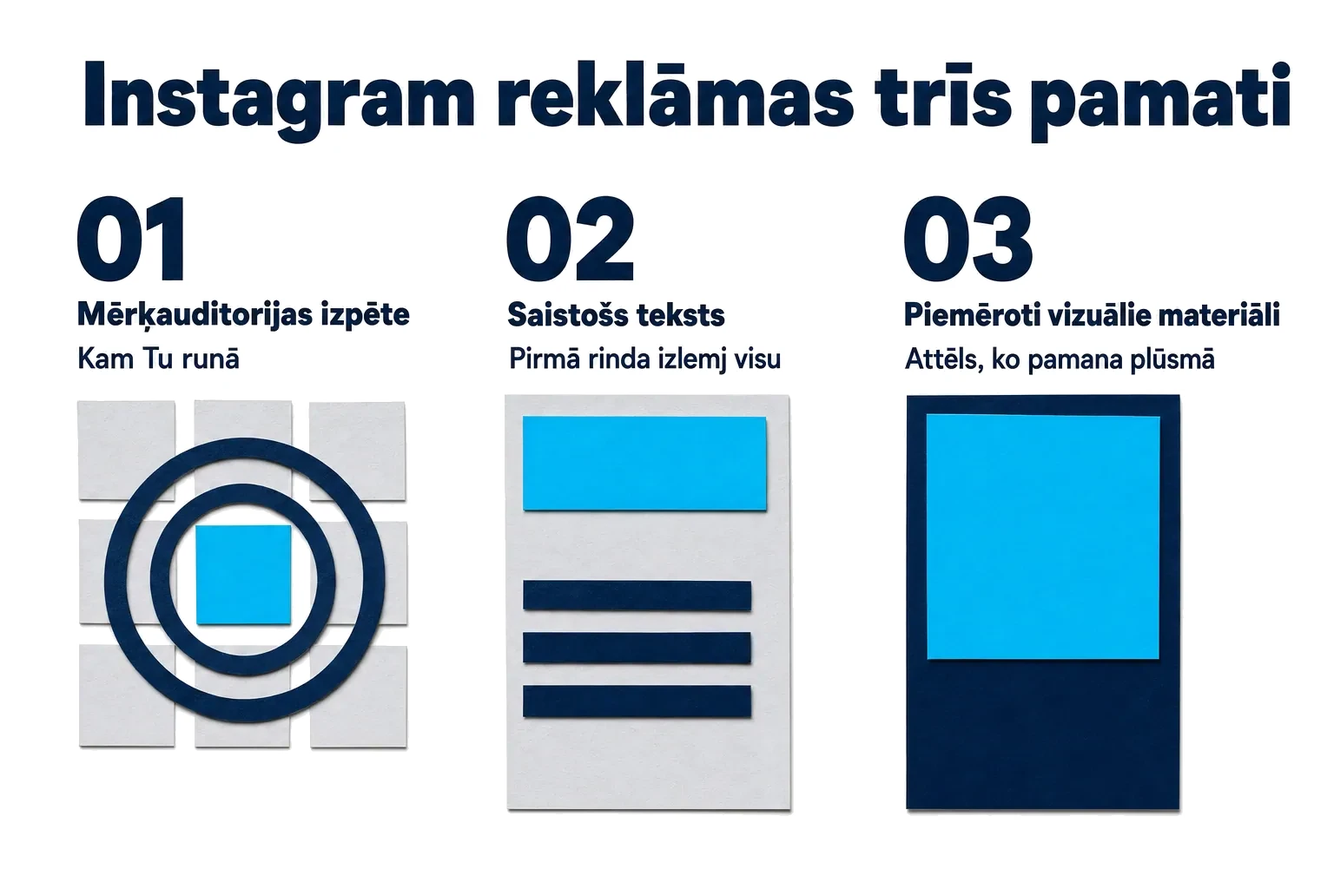
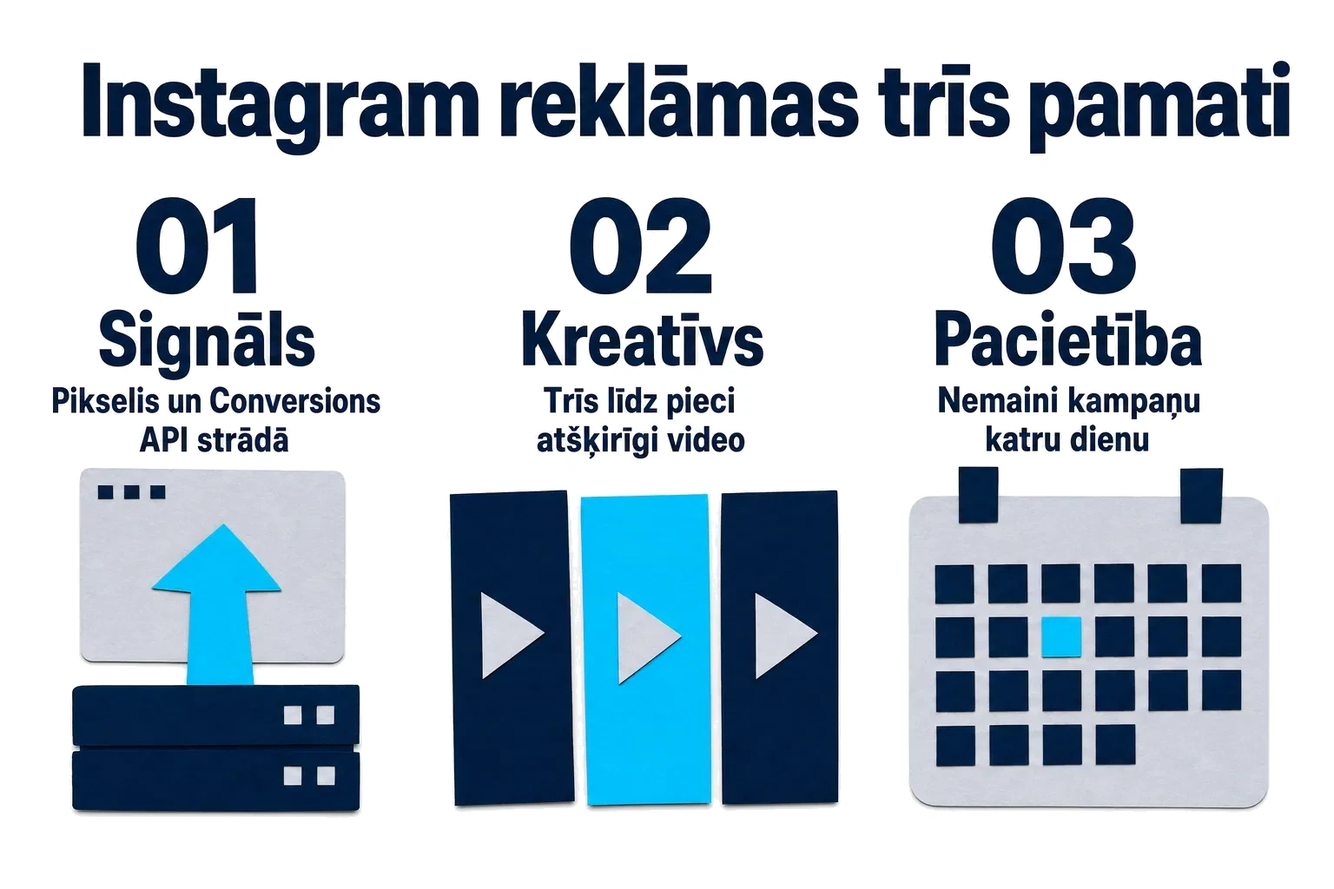
Rewrite the Instagram and Facebook ads posts for 2026
Both were written when you still picked the audience by hand. That is the
part the algorithm now does better, so the articles are restructured around
what actually decides the result: the signal you feed it (pixel plus
Conversions API), the number of different creatives, and leaving the
campaign alone long enough to learn.

Instagram: five steps plus what not to do, an Advantage+ section, and its
infographic redrawn from 'audience research / text / visuals' to
'signal / creative / patience' so the picture matches the argument.

Facebook: a setup order rather than six abstract stages, with the objective
mistake (iesaiste when you want buyers) called out, real Latvian starting
budgets, and a five-step infographic.

Deep links into the Meta course, the Facebook/Instagram service and the
neighbouring posts; the service link now points at /facebook-reklama/,
which is the service page, not the blog post at /meta-reklamas/.

diff --git a/src/posts/instagram-reklama.md b/src/posts/instagram-reklama.md
@@ -2,53 +2,108 @@
 layout: post.njk
 title: "Instagram reklāma - no kura gala sākt?"
 seoTitle: "Instagram reklāma - no kura gala sākt? | Mārketinga Skola"
-description: "Vai zini, kas ir galvenie soļi, kas nepieciešami, lai Instagram reklāma dotu labākos rezultātus? Šajā rakstā aplūkosim katru no šiem soļiem!"
+description: "Instagram reklāma 2026. gadā: signāls, kreatīvs un budžets. Pieci soļi, ar ko sākt, un kļūdas, kas maksā visdārgāk."
 date: 2022-02-09
-updated: 2024-10-21
+updated: 2026-09-05
 image: "/img/gen/cover-instagram-reklama.webp"
 legacyImage: "/img/2022/02/7.jpg"
 categories: ["socialo-tiklu-reklama"]
 permalink: "/instagram-reklama/"
-keywords: ["Instagram reklāma", "mērķauditorija", "reklāmas teksts", "vizuālie materiāli"]
+keywords: ["Instagram reklāma", "Meta reklāma", "Conversions API", "reklāmas kreatīvs", "Advantage+"]
 
 ---
 
-Instagram reklāma ir viens no efektīvākajiem un populārākajiem veidiem, kā popularizēt savu uzņēmumu. Kāpēc? Instagram ir sastopami lietotāji ar dažādām interesēm, tāpēc tā ļoti strauji kļūst par populārāko sociālo mediju platformu, kurā uzņēmumi īsteno savas mārketinga stratēģijas.
+Instagram reklāmu vairs neizšķir tas, cik precīzi Tu izvēlies mērķauditoriju. Algoritms to atrod pats. Izšķir divas citas lietas: kādu signālu Tu tam iedod un cik labs ir Tavs reklāmas materiāls.
 
-Instagram reklāma ir lielisks veids, kā Tu vari uzrunāt vēlamo mērķauditoriju un piesaistīt potenciālo klientu uzmanību. Šajā visā gan slēpjas neliels āķis: Lai Tavi potenciālie klienti būtu tiešām ieinteresēti, Tavām reklāmām ir jābūt saistošām, vizuāli pievilcīgām un, protams, ieintriģējošām!
+Tieši tāpēc vecie padomi vairs nedarbojas. Sīki salikta interešu auditorija šodien biežāk traucē, nevis palīdz, jo tā ierobežo sistēmu, kas pati pircēju būtu atradusi lētāk.
 
-Šajā bloga rakstā mēs dalīsimies ar vērtīgiem faktoriem, ko ņemt vērā, veidojot savu Instagram reklāmu. Pēc raksta izlasīšanas, sapratīsi, kā izveidot perfektu Instagram reklāmu savam uzņēmumam, kas izraisītu vislielāko iesaistīšanos un kopīgošanos (tādu reklāmu, kas uzlabos Tavu zīmolu)!
+Šajā rakstā apskatīsim piecas lietas, ar ko sākt, un vienu, ko labāk nedarīt.
 
-## Mērķauditorijas izpēte
+## Kas mainījies
 
-Veiksmīga Instagram reklāma ir tāda, pirms kuras izveides, ir rūpīgi izpētīta reklāmas mērķauditorija, tās vajadzības un intereses. Tas var prasīt zināmu laiku, taču tas ir tā vērts! Tev ir jāspēj izveidot neticami detalizēts priekšstats par savu mērķauditoriju, lai spētu to efektīvi uzrunāt. Savā izpētē ir jāiekļauj tādi aspekti kā demogrāfija, ienākumi, vēlme komentēt un dalīties ar publikācijām, kā arī viņu ģeogrāfiskā atrašanās vieta.
+Trīs izmaiņas, kas maina darbu secību.
 
-_Atceries: Tavai auditorijai ir jānosaka Tavas Instagram reklāmas saturs, nevis otrādi. Nav iespējams ieinteresēt cilvēkus reklāmā, kuras saturs viņiem nav saistošs un šķiet garlaicīgs._
+**Auditorijas izvēle ir kļuvusi mazsvarīga.** Meta reklāmu sistēma mācās no cilvēku uzvedības, un tai vajag brīvu telpu. Šaura auditorija to ierobežo. Praksē plaša auditorija ar labu reklāmas materiālu gandrīz vienmēr uzvar šauru auditoriju ar viduvēju reklāmu.
 
-## Saistošs reklāmas teksts
+**Reklāmas materiāls ir kļuvis par galveno ietekmes faktoru.** Tas, ko cilvēks redz pirmajā sekundē, tagad nosaka gan cenu, gan rezultātu. Ja reklāma neaptur ritināšanu, pārējam vairs nav nozīmes.
 
-Zināji, ka veiksmīgs reklāmas teksts ir tāds, kas pievērš potenciālā klienta uzmanību pirmajās trīs sekundēs? [Reklāmas tekstu sastādīšanas](/5-ieteikumi-konvertejosu-reklamas-tekstu-sastadisana/) laikā domā par personisko aspektu: centies lietotāju acīs palikt kā uzņēmums, kam rūp. Padari savu reklāmas tekstu sulīgu, saistošu un piemērotu Tavai mērķauditorijai. Noteikti arī pārliecinies, ka Tavā tekstā nav gramatikas kļūdu, jo tas norādīs uz profesionalitāti.
+**Mērīšana notiek servera pusē.** Pārlūkprogrammas bloķē izsekošanu, tāpēc dati, kas nāk tikai no pikseļa, ir nepilnīgi. Ja datu trūkst, algoritms mācās lēnāk un reklāma maksā dārgāk.
 
-Atceries: _Tavas reklāmas teksts ir viens no svarīgākajiem faktoriem, jo tas nosaka to, vai potenciālais klients uzklikšķinās uz Tavas reklāmas un vēlēsies lasīt tālāk!_
+## Solis viens: sakārto signālu
 
-## Piemēroti vizuālie materiāli
+Pirms pirmās kampaņas pārbaudi, vai Meta vispār redz, kas notiek Tavā mājaslapā.
 
-Kāpēc Instagram ir viena no labākajām sociālo mediju mārketinga platformām? Cilvēkus dabiski piesaista vizuāls saturs un estētiski vizuālie materiāli. Cilvēka uztvere un pirmais iespaids par zīmolu ir atkarīgs no tā, ko viņš vai viņa redz Instagram reklāmā. Ja vēlies piesaistīt vairāk uzmanības Instagram, tad noteikti atceries, ka ir jāveido reklāmas, kas ir estētiski pievilcīgas. Īsāk sakot, Tavs uzdevums ir izveidot vai atrast vizuāli (bildi, attēlu, zīmējumu), kas ir “vienīgais īstais”, jo parāda tieši to, ko vēlies pateikt.
+Vajag divas lietas: pikseli un servera puses notikumus jeb Conversions API. Abus var savienot [Meta Events Manager](https://business.facebook.com/events_manager2/) sadaļā, un lielākajām mājaslapu platformām tam ir gatavs pieslēgums. Kad tas ir izdarīts, notikumu kvalitātes rādītājs parāda, cik daudz datu tiešām tiek nosūtīts.
 
-Noteikti atceries, ka Tavam vizuālim ir jābūt piemērotam nozarei, kurā darbojies, kā arī silti iesakām publicēt sava reklamējamā produktu attēlu. Noteikti apsver domu par sadarbību ar grafisko dizaineri, kurš varētu Tavas Instagram reklāmas vizuālos materiālus pacelt jaunā līmenī!
+Šis solis nav aizraujošs, un tieši tāpēc to bieži izlaiž. Bet bez tā katrs nākamais solis strādā vājāk.
+
+## Solis divi: reklāmas materiāls ir jaunā mērķauditorija
+
+Ja auditoriju izvēlas algoritms, Tavs darbs ir sagatavot pietiekami daudz dažādu reklāmu, lai tam būtu, no kā izvēlēties.
+
+Praktisks minimums vienai kampaņai: trīs līdz pieci atšķirīgi reklāmas materiāli. Nevis trīs vienas bildes krāsu varianti, bet trīs dažādas idejas. Viens rāda produktu darbībā, otrs klienta atsauksmi, trešais atbild uz konkrētu iebildumu.
+
+Kas 2026. gadā strādā Instagram plūsmā:
+
+- **Vertikāls video, filmēts ar telefonu.** Pārāk noslīpēta reklāma izskatās pēc reklāmas, un to izlaiž.
+- **Cilvēks kadrā pirmajā sekundē.** Seja aptur ritināšanu labāk nekā produkta bilde.
+- **Klientu saturs.** Īsts lietotāja video parasti pārspēj studijā filmētu materiālu.
+- **Teksts uz ekrāna.** Lielākā daļa skatās bez skaņas.
+
+Plašāk par formātu esam rakstījuši sadaļā [Instagram Reels mārketingam](/instagram-reels-marketingam/).
+
+## Solis trīs: pirmās trīs sekundes
+
+Vecais padoms bija "padari tekstu saistošu". Šodien ar to nepietiek. Cilvēks reklāmu redz kustībā, tāpēc pirmās trīs sekundes izšķir visu, un tās notiek attēlā, nevis parakstā.
+
+Pārbaudi savu reklāmu tā: noskaties pirmās trīs sekundes bez skaņas. Ja šajā laikā nav skaidrs, par ko ir runa un kam tas domāts, reklāmas materiāls ir jāpārtaisa.
+
+Paraksts ir otrajā vietā. Viena doma, konkrēta priekšrocība un skaidrs aicinājums rīkoties. Praktiskas formulas atradīsi rakstos [īsa pamācība izcilu reklāmas tekstu veidošanā](/isa-pamaciba-izcilu-reklamas-tekstu-veidosana/) un [5 ieteikumi konvertējošu reklāmas tekstu sastādīšanai](/5-ieteikumi-konvertejosu-reklamas-tekstu-sastadisana/).
+
+## Solis četri: budžets un pacietība
+
+Biežākais iemesls, kāpēc reklāma nestrādā, nav slikts reklāmas materiāls. Tas ir pārāk daudz roku darba.
+
+Sistēmai vajag apmēram piecdesmit konversijas nedēļā vienā reklāmu kopā, lai tā izietu no mācīšanās posma. Ja Tu maini budžetu vai auditoriju katru dienu, mācīšanās sākas no jauna un rezultāta nav nekad.
+
+Praktiskā kārtība ir vienkārša. Viena kampaņa, viena reklāmu kopa, plaša auditorija, vairāki reklāmas materiāli. Budžetu nemaini biežāk kā reizi nedēļā un ne vairāk kā par divdesmit procentiem. Cenu vērtē nedēļas ietvaros, nevis pa dienām.
+
+Cik tas maksā Latvijā, esam sarēķinājuši rakstā [cik maksā reklāma Facebook](/cik-maksa-reklama-facebook/).
+
+## Solis pieci: skaties uz pareizo skaitli
+
+Reklāmu pārvaldnieks rāda katras reklāmas atdevi atsevišķi, un tas var maldināt. Cilvēks reklāmu var redzēt Instagram, bet nopirkt pēc trim dienām no meklētāja.
+
+Tāpēc lēmumus pieņem pēc diviem skaitļiem: cik maksā viens klients un cik kopā ienāca kasē tajā pašā periodā. Ja abi iet pareizajā virzienā, kampaņa strādā, lai ko rādītu atsevišķas rindas.
+
+## Vai izmantot Advantage+ kampaņas
+
+Meta piedāvā kampaņu veidu, kur sistēma pati izvēlas auditoriju, izvietojumus un reklāmas materiālu kombinācijas. Latvijas mazajiem uzņēmumiem tas parasti ir izdevīgi, jo aiztaupa tieši to darbu, kuru cilvēks izdara sliktāk par algoritmu.
+
+Divi nosacījumi tomēr paliek. Pirmkārt, vajag datus: bez sakārtota signāla automātika mācās no trokšņa. Otrkārt, vajag vairākus reklāmas materiālus, jo sistēma var izvēlēties tikai no tā, ko Tu tai esi iedevis.
+
+Automātiskos teksta un attēla variantus atstāj ieslēgtus, bet pārlasi, ko tie ģenerē. Reizēm tie maina nozīmi vai pievieno solījumu, kuru Tu nevari izpildīt.
 
 {% infographic { id: "info-instagram-reklamas-soli", title: "Instagram reklāmas trīs pamati", items: [
- { label: "Mērķauditorijas izpēte", text: "Kam Tu runā." },
- { label: "Saistošs teksts", text: "Pirmā rinda izlemj visu." },
- { label: "Piemēroti vizuālie materiāli", text: "Attēls, ko pamana plūsmā." }
+ { label: "Signāls", text: "Pikselis un Conversions API strādā." },
+ { label: "Kreatīvs", text: "Trīs līdz pieci atšķirīgi video." },
+ { label: "Pacietība", text: "Nemaini kampaņu katru dienu." }
 ] } %}
 
-## Mārketinga skolas piedāvājums
+## Ko labāk nedarīt
 
-Vai pēc šī bloga raksta izlasīšanas jūties pārliecinātāks par savu Instagram reklāmu? Atceries, ka jaudīga Instagram reklāma ir pavisam vienkārši izveidojama un sastāv no 3 galvenajiem faktoriem:
+**Nesalikt piecas šauras interešu auditorijas.** Tās pārklājas, sadala budžetu un padara datus grūti saprotamus.
 
-- mērķauditorijas izpētes,
-- pievilcīga vizuāļa,
-- [saistoša reklāmas teksta](/isa-pamaciba-izcilu-reklamas-tekstu-veidosana/)
+**Neizslēgt Instagram izvietojumus pēc sajūtas.** Automātiskie izvietojumi gandrīz vienmēr atrod lētāku vietu, nekā to izdarītu cilvēks.
 
-Ja vēlies padziļināti iepazīt Facebook un Instagram reklāmu pasauli, un iegūt visu nepieciešamo informāciju, lai veidotu veiksmīgas reklāmas kampaņas, tad mēs tev piedāvājam [Facebook un Instagram reklāmas kursu](/meta-reklamas-kurss/) tiešsaites formātā, kas palīdzēs tavam uzņēmumam attīstīties!
+**Nepublicēt vienu reklāmu un neatstāt to mierā uz mēnesi.** Reklāmas materiāls nolietojas trīs līdz sešās nedēļās, un pirmā pazīme ir aizvien dārgāks klikšķis.
+
+Pārējās tipiskās kļūdas esam savākuši rakstā [5 visizplatītākās kļūdas reklāmas izvietošanā Facebook](/5-visizplatitakas-kludas-reklamas-izvietosana-facebook/).
+
+## Ar ko sākt šonedēļ
+
+Ja šobrīd nav nekā, sāc šādā secībā. Pirmkārt, pieslēdz Conversions API. Otrkārt, uzfilmē trīs īsus vertikālus video ar telefonu. Treškārt, palaid vienu kampaņu ar plašu auditoriju un neaiztiec to divas nedēļas.
+
+Vizuāļus var salikt bez dizainera, piemēram, [Canva](https://www.canva.com/), bet video sagriezt telefonā ar [CapCut](https://www.capcut.com/). Kā šos rīkus izmantot ātrāk, aprakstīts rakstā [8 mākslīgā intelekta rīki mārketingam](/maksliga-intelekta-riki/).
+
+Ja gribi visu Meta reklāmu sistēmu apgūt secīgi un ar savu kontu rokās, to mācām [Meta reklāmas kursā](/meta-reklamas-kurss/): trīs stundas tiešsaistē, kur kopā saliekam kampaņu no signāla līdz reklāmas materiālam. Ja labāk gribi, lai to izdara kāds cits, apskati [Meta reklāmas pakalpojumu](/facebook-reklama/) vai izrunā savu situāciju [individuālā konsultācijā](/marketinga-konsultacijas/).

diff --git a/src/posts/facebook-reklamas-izstrade.md b/src/posts/facebook-reklamas-izstrade.md
@@ -2,69 +2,94 @@
 layout: post.njk
 title: "Facebook reklāmas: Kā reklamēt savu biznesu internetā?"
 seoTitle: "Facebook reklāmas: Kā reklamēt savu biznesu internetā? | Mārketinga Skola"
-description: "Vai vēlies uzzināt, kā Facebook reklāmas var palīdzēt Tavam biznesam? Šajā rakstā Tevi iepazīstināsim ar Facebook kampaņas izveides pamatiem!"
+description: "Kā 2026. gadā palaist Facebook reklāmu, kas pārdod: konts, signāls, pareizais mērķis, vienkārša uzbūve un pirmās divas nedēļas."
 date: 2022-01-09
-updated: 2025-04-29
+updated: 2026-09-05
 image: "/img/gen/cover-facebook-reklamas-izstrade.webp"
 legacyImage: "/img/2022/01/8.jpg"
 categories: ["socialo-tiklu-reklama"]
 permalink: "/facebook-reklamas-izstrade/"
-keywords: ["Facebook reklāmas izstrāde", "reklāmas kampaņa", "mērķauditorija", "reklāmas budžets", "Ads Manager"]
+keywords: ["Facebook reklāma", "Meta reklāma", "Business Manager", "Conversions API", "reklāmas budžets"]
 
 ---
 
-Vai esi kādreiz aizdomājies par to, cik lielu lomu digitālā mārketingā pasaulē spēlē Facebook reklāmas? Mēs Tev varam sniegt atbildi: _Būtiski lielu, jo M_eta platformas _aktīvi izmanto 3,2 miljardi cilvēku katru mēnesi! (1 160 000 + Latvijā)_ Tā ir patiesi lieliska sociālo mediju platforma, kurā reklamēties, tāpēc, ja vēlies iepazīt Facebook reklāmas (Kas ietver arī [Instagram reklāmas](/instagram-reklama/)) tuvāk, tad šis bloga raksts ir domāts tieši Tev!
+Facebook reklāmu var palaist piecās minūtēs, nospiežot pogu "Reklamēt ierakstu". Tieši tāpēc lielākā daļa mazo uzņēmumu to izmēģina, neko neiegūst un secina, ka reklāma nestrādā.
 
-## Kas tad īsti ir Facebook reklāmas?
+Problēma nav platformā. Problēma ir tajā, ka šis pogas ceļš izlaiž trīs lietas, no kurām atkarīgs viss pārējais.
+
+Šis raksts ir praktiska secība: kas jāsakārto pirms pirmās kampaņas, kā to izveidot 2026. gadā un ko darīt pirmajās divās nedēļās.
+
+## Kas Facebook reklāma ir šodien
 
 <iframe title="Mārketinga Stratēģija: Facebook Reklāma Klientu Piesaistei (2025 – Reklāmas Aģentūras Padomi)" width="1080" height="608" src="https://www.youtube-nocookie.com/embed/iur9HvAaXVY" loading="lazy" allow="accelerometer; autoplay; clipboard-write; encrypted-media; gyroscope; picture-in-picture; web-share" referrerpolicy="strict-origin-when-cross-origin" allowfullscreen></iframe>
 
-Pavisam vienkārši: Tās ir reklāmas, kas tiek izveidotas un publicētas Facebook platformā, lai mērķētu tās uz tiem platformas lietotājiem, kuriem reklāma varētu šķist vissaistošākā. Lai pielāgotu reklāmas savai mērķauditorijai, ir nepieciešams atzīmēt dažādus vēlamos faktorus, kas auditorijai atbilst, piemēram, atrašanās vieta, demogrāfiskais stāvoklis vai intereses. Tādējādi Facebook reklāmas ieguvums ir tāds, ka to redz tikai tie lietotāji, kuri atbilst iepriekš atzīmētajiem faktoriem.
+Tā ir viena sistēma, nevis viena platforma. Palaižot reklāmu, Tu vienlaikus vari parādīties Facebook plūsmā, [Instagram](/instagram-reklama/) plūsmā un Reels sadaļā, Messenger un Meta partneru vietnēs. Tāpēc precīzāk to saukt par Meta reklāmu.
 
-**Lūk, vēl daži reklāmas ieguvumi:**
+Otra izmaiņa ir vēl svarīgāka. Agrāk cilvēks izvēlējās auditoriju, un sistēma tai rādīja reklāmu. Šodien sistēma pati meklē cilvēkus, kuri visdrīzāk nopirks, ja vien Tu tai iedod datus un vairākus reklāmas materiālus. Tavs darbs vairs nav tik daudz atlase, cik sagatavošana.
 
-- Viegli pielāgot savu budžetu;
-- Izmantojot analītiskos rādītājus, var rūpīgi sekot līdzi reklāmas efektivitātei;
-- Ir iespējams ātri un efektīvi gūt plašāku atpazīstamību, palielinot klientu skaitu.
+## Trīs lietas, kas jāsakārto pirms pirmās kampaņas
 
-## Stratēģijas izstrāde kā prioritāte
+**Konts, kas Tev pieder.** Reklāmas kontam un lapai jābūt [Meta Business Manager](https://business.facebook.com/) profilā, kas reģistrēts uz uzņēmumu. Ja to izveido darbinieks savā personīgajā profilā, konts pazūd kopā ar viņu.
 
-Pirms sāc savu reklāmas ceļojumu, ir jāvelta laiks stratēģijas izveidei. Bez konkrētas stratēģijas, būs tiešām viegli apjukt lielajā informācijas burzmā un piedāvājumu klāstā. Reklāmām ir jābūt mērķtiecīgām, jo bez mērķiem un konkrētiem plāniem tās diemžēl nebūs efektīvas.
+**Signāls no mājaslapas.** Ar pikseli vien vairs nepietiek, jo pārlūkprogrammas to bloķē. Vajag arī servera puses notikumus jeb Conversions API. Bez tā sistēma nezina, kurš nopirka, un mācās no nejaušiem datiem.
 
-Pirms ķeries klāt pie kampaņas izveides, uzdod sev šos jautājumus:
+**Piedāvājums, ko var pateikt vienā teikumā.** Ja Tu pats nevari pateikt, kāpēc cilvēkam būtu jāpērk tieši pie Tevis, reklāma to neizdomās. Šo daļu palīdz sakārtot [mārketinga stratēģijas izstrāde](/marketinga-strategijas-izstrade/).
 
-- Kādu produktu vai pakalpojumu es konkrēti vēlos reklamēt?
-- Uz kādu auditoriju es mērķēju?
-- Kā viņi izmantos manu produktu un ko tieši no tā iegūs?
-- Kāds ir manas kampaņas konkrētais mērķis:
- - Vai es vēlos iegūt jaunus klientus?
- - Vai tomēr gūt plašāku zīmola atpazīstamību?
- - Varbūt veicināt pārdošanas apjomus?
+## Kā izvēlēties kampaņas mērķi
 
-## Kādi ir Facebook reklāmas izveides soļi?
+Šī ir biežākā vieta, kur nauda aiziet garām. Meta piedāvā dažādus mērķus, un sistēma optimizē reklāmu tieši tam, ko Tu izvēlies.
 
-Reklāmas izveide sastāv no vairākiem etapiem, un mēs esam izvēlējušies šos 6 etapus kā pašus galvenos:
+Izvēlies **pārdošanu vai potenciālos klientus**, ja gribi pircējus. Tad algoritms meklē cilvēkus, kuri mēdz pirkt, nevis cilvēkus, kuri mēdz spiest "patīk".
 
-- [_Mārketinga stratēģijas izstrāde_](/marketinga-strategijas-izstrade/): Jau izcēlām to, cik šis posms ir svarīgs, bet tiešām atceries, ka bez konkrētas stratēģijas nav iespējami efektīvi rezultāti.
-- _Mērķa izvēle_: Posms, kurā Tev jāizvirza savs mērķis, piemēram, plašāka zīmola atpazīstamība vai lietotāju iesaistes palielināšana. Mērķim ir jāsaskan ar Taviem uzņēmējdarbības mērķiem.
-- _Mērķauditorijas atlase_: Posms, kurā izvēlies pēc kādiem kritērijiem pielāgot reklāmas lietotājiem.
-- _Lokācijas izvēle_: Posms, kurā izvēlies, kur tieši Tavas reklāmas šajā platformā būs redzamas, piemēram, storijos.
-- _Budžeta, laika un optimizācijas fiksēšana_: Posms, kurā vari izvēlēties savu reklāmas budžetu, izvēlēties, vai Tavas reklāmas uzrādīsies ar vai bez definēta sākuma un beigu posma, kā arī varēsi veikt reklāmas optimizāciju.
-- _Formāta izvēle:_ Posms, kurā izvēlies, vai Tavu reklāmu formāts būs, piemēram, bilde, video, slaidšovs vai vēl cits formāts.
+Neizvēlies **iesaisti vai sasniedzamību**, ja gribi pārdot. Tu saņemsi lētus klikšķus un komentārus no cilvēkiem, kuri nekad neko nepirks. Rādītāji izskatīsies labi, bet kase paliks tukša.
 
-Vērtīgākais, ko paņemt no šī bloga raksta? Facebook ir digitālā mārketinga veiksmes atslēga! Facebook ir lielisks veids, kā reklamēt savu biznesu internetā, protams, pirms tam izveidojot skaidru spēles plānu.
+**Atpazīstamība** ir godīgs mērķis, bet tikai tad, ja Tev jau ir stabila pārdošana un budžets, ko vari atļauties ilgtermiņā.
 
-{% infographic { id: "info-facebook-reklamas-etapi", title: "Facebook reklāma sešos etapos", items: [
- { label: "Stratēģija", text: "Bez tās nav rezultātu." },
- { label: "Mērķis", text: "Atpazīstamība vai pārdošana." },
- { label: "Mērķauditorija", text: "Pēc kādiem kritērijiem atlasīt." },
- { label: "Lokācija", text: "Kur reklāma parādīsies." },
- { label: "Budžets un laiks", text: "Cik un cik ilgi." },
- { label: "Formāts", text: "Bilde, video vai slaidšovs." }
+## Kampaņas uzbūve
+
+Vecais padoms bija veidot daudzas reklāmu kopas ar dažādām auditorijām. 2026. gadā tas parasti kaitē: kopas konkurē savā starpā, budžets sadalās, un neviena nesavāc pietiekami daudz datu, lai iemācītos.
+
+Sāc ar vienkāršāko uzbūvi:
+
+- viena kampaņa;
+- viena reklāmu kopa ar plašu auditoriju, tikai valsts, valoda un vecums;
+- trīs līdz pieci atšķirīgi reklāmas materiāli tajā;
+- automātiskie izvietojumi ieslēgti.
+
+Tas izskatās pārāk vienkārši, un tieši tāpēc tas strādā. Kā šī uzbūve izskatās praksē, esam parādījuši rakstā [Meta reklāmas](/meta-reklamas/).
+
+{% infographic { id: "info-facebook-reklamas-etapi", title: "Facebook reklāma piecos soļos", items: [
+ { label: "Konts un signāls", text: "Business Manager, pikselis un Conversions API." },
+ { label: "Mērķis", text: "Pārdošana, nevis iesaiste." },
+ { label: "Viena kopa", text: "Plaša auditorija, ne piecas šauras." },
+ { label: "Materiāli", text: "Trīs līdz pieci atšķirīgi." },
+ { label: "Divas nedēļas", text: "Nemaini neko bez datiem." }
 ] } %}
 
-## Mārketinga Skolas piedāvājums
+## Cik naudas vajag sākumā
 
-Ja vēlies padziļināti iepazīt Facebook un Instagram reklāmu pasauli, un gūt visu nepieciešamo informāciju, lai veidotu veiksmīgas reklāmas kampaņas, mēs esam izveidojuši mūsu apjomīgāko [Facebook un Instagram reklāmas kursu](/meta-reklamas-kurss/) tiešsaistes formātā.
+Latvijā reāls sākuma budžets vienam mērķim ir aptuveni desmit līdz divdesmit eiro dienā. Ar mazāku budžetu sistēma savāc pārāk maz datu, lai vispār iemācītos.
 
-Un, ja meklē profesionālu atbalstu savu mērķu sasniegšanai, mēs esam šeit, lai palīdzētu. Kā pieredzējusi reklāmas aģentūra, mēs piedāvājam [profesionālu palīdzību Facebook un Instagram reklāmu uzstādīšanā](/facebook-reklama/), nodrošinot, ka Tava kampaņa sasniedz vēlamos rezultātus visefektīvākajā veidā.
+Rēķinies, ka pirmās divas nedēļas ir mācīšanās, nevis peļņa. Ja šajā laikā izslēdz kampaņu vai katru dienu maini budžetu, mācīšanās sākas no nulles un rezultāta nav nekad.
+
+Kā veidojas cenas un no kā tās ir atkarīgas, esam sarēķinājuši rakstā [cik maksā reklāma Facebook](/cik-maksa-reklama-facebook/).
+
+## Ko darīt pirmajās divās nedēļās
+
+Pirmā nedēļa: neko nedari. Skaties, bet neaiztiec. Vienīgais izņēmums ir acīmredzama kļūda, piemēram, nestrādājoša saite.
+
+Otrā nedēļa: paskaties, kurš reklāmas materiāls dod lētākos rezultātus, un pieliec klāt divus jaunus, kas līdzinās uzvarētājam. Vājākos izslēdz. Auditoriju neaiztiec.
+
+Pēc mēneša: rēķini nevis atsevišķu reklāmu atdevi, bet to, cik maksā viens klients un cik kopā ienāca kasē. Cilvēks reklāmu var redzēt Facebook, bet nopirkt pēc trim dienām citur.
+
+## Biežākās kļūdas
+
+Pārāk sīki salikta interešu auditorija, kas ierobežo sistēmu. Viens reklāmas materiāls, kas mēneša laikā nolietojas. Mērķis "iesaiste", kad vajadzīgi pircēji. Un kampaņas maiņa katru dienu.
+
+Pilnu sarakstu ar to, kā katru no tām pamanīt, esam apkopojuši rakstā [5 visizplatītākās kļūdas reklāmas izvietošanā Facebook](/5-visizplatitakas-kludas-reklamas-izvietosana-facebook/).
+
+## Nākamais solis
+
+Ja gribi to visu izdarīt pats un savā kontā, to mācām [Meta reklāmas kursā](/meta-reklamas-kurss/). Trīs stundas tiešsaistē, kur kopā ejam cauri tieši šai secībai: konts, signāls, mērķis, uzbūve un materiāli.
+
+Ja gribi, lai to izdara kāds cits, apskati [Facebook un Instagram reklāmas pakalpojumu](/facebook-reklama/). Ja vēl neesi drošs, kurš no abiem variantiem ir pareizais Tavā situācijā, to var izrunāt [individuālā konsultācijā](/marketinga-konsultacijas/).
